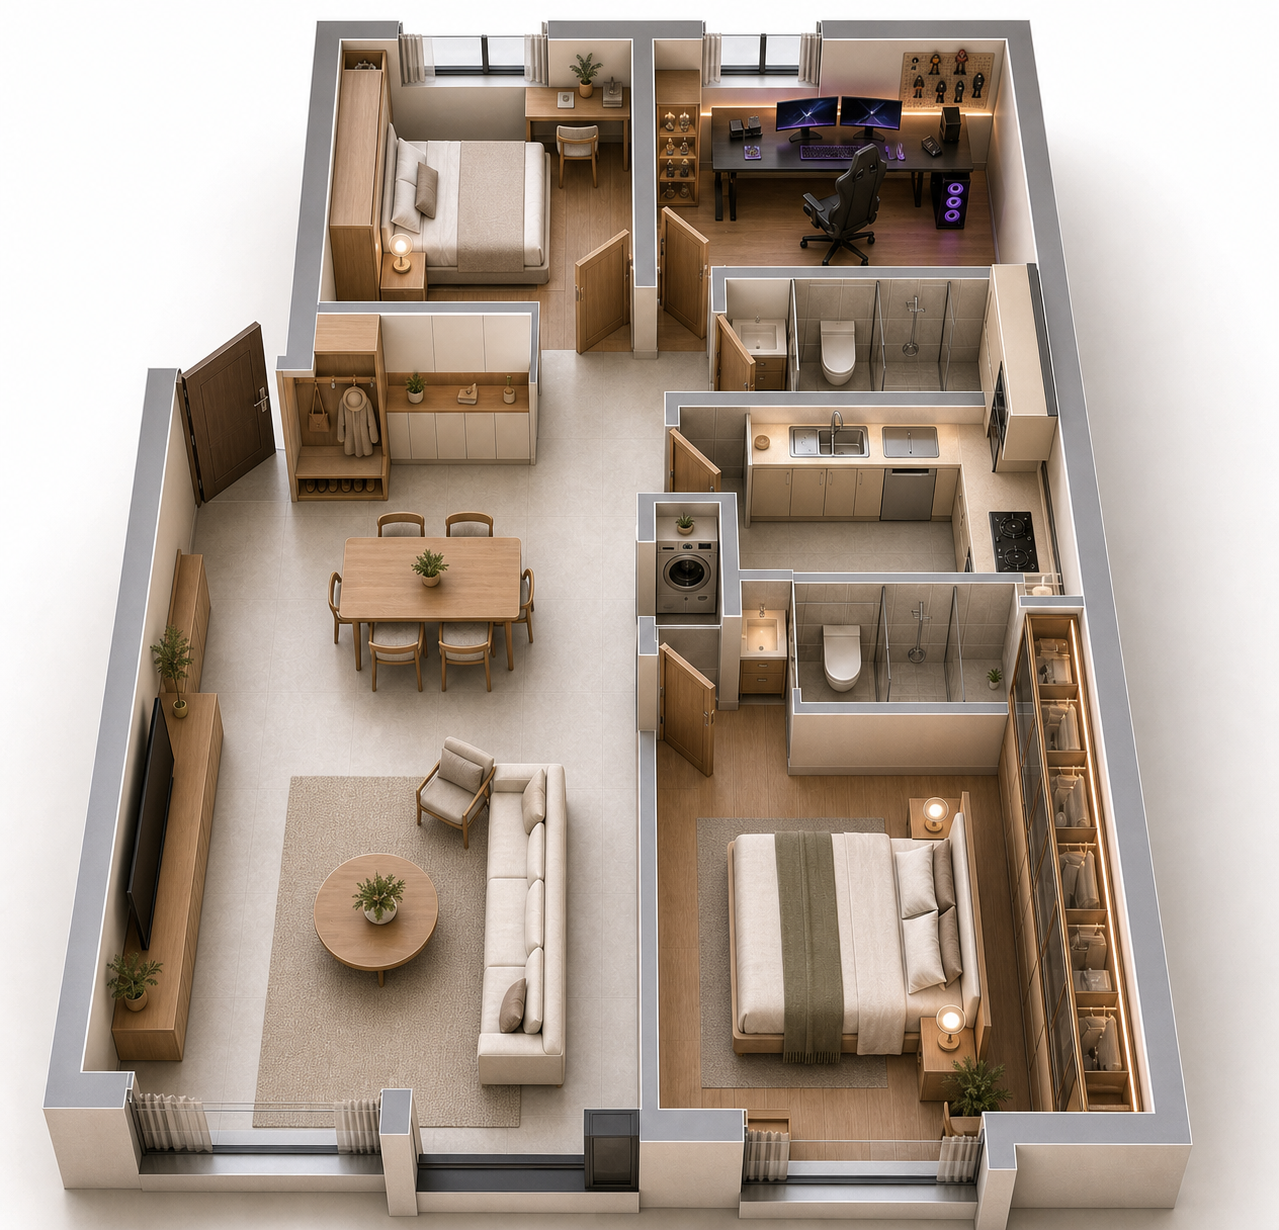
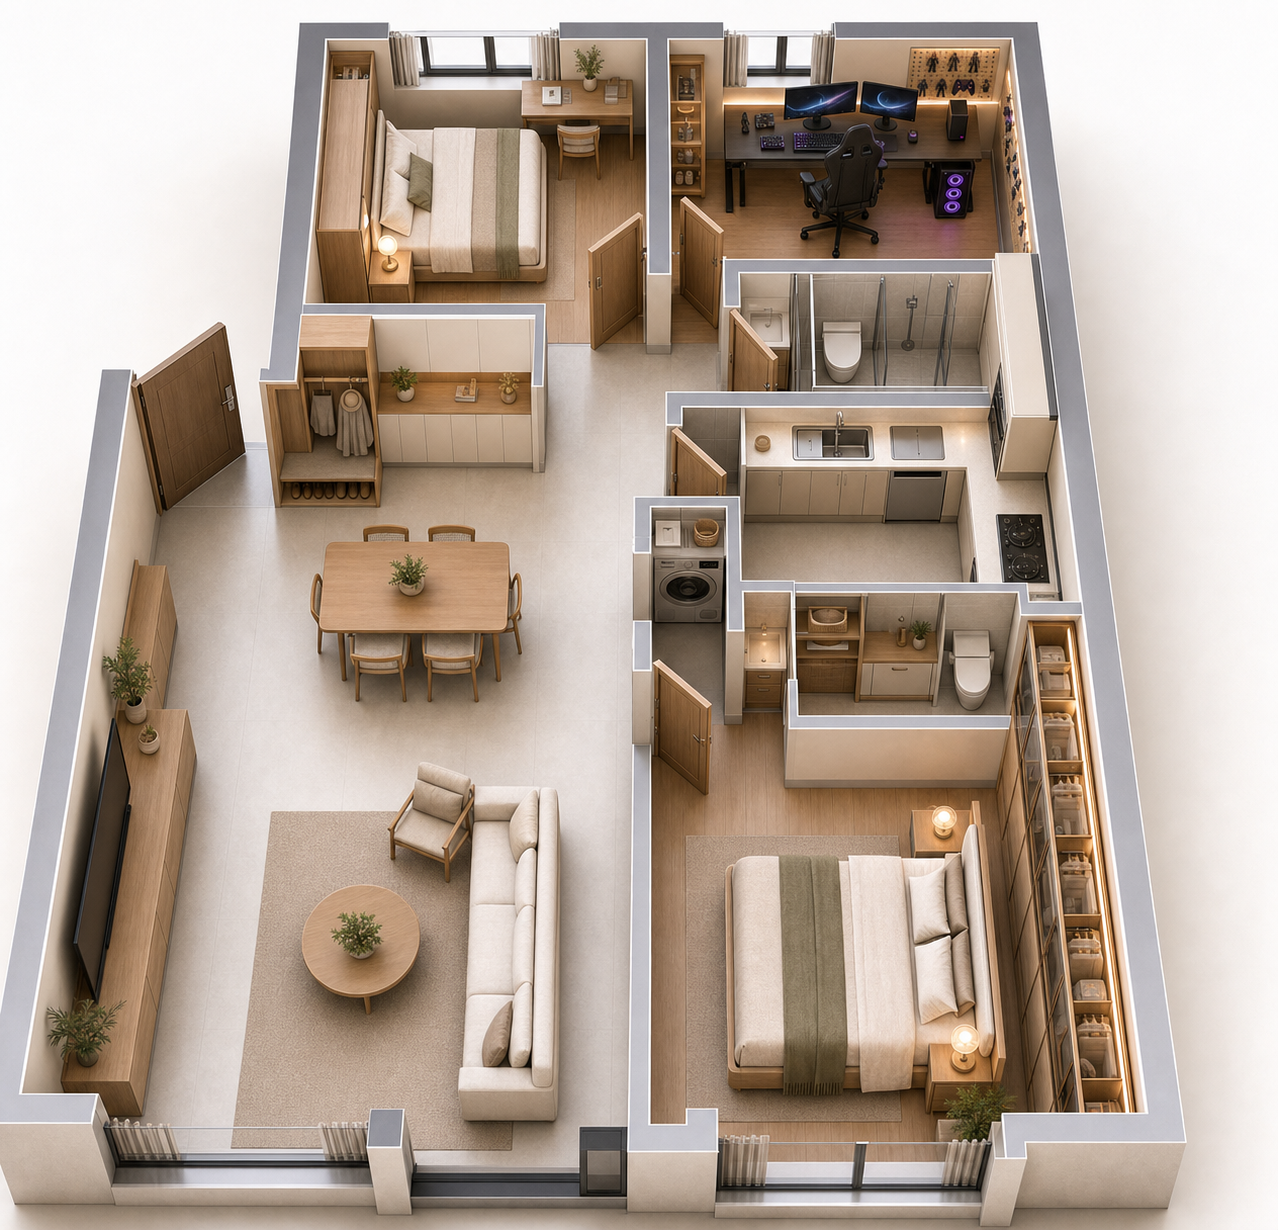
complete render gallery

diff --git a/outputs/render-prompt-gallery.html b/outputs/render-prompt-gallery.html
@@ -1,0 +1,284 @@
+<!doctype html>
+<html lang="zh-CN">
+<head>
+  <meta charset="utf-8">
+  <meta name="viewport" content="width=device-width, initial-scale=1">
+  <title>119㎡装修效果图与提示词总览</title>
+  <style>
+    :root {
+      --bg: #f6f1ea;
+      --paper: #fffdfa;
+      --ink: #2f2a24;
+      --muted: #72675d;
+      --line: #ded1c3;
+      --wood: #b88955;
+      --sage: #7c8c73;
+      --tile: #d8d0c8;
+      --warn: #a96b48;
+    }
+    * { box-sizing: border-box; }
+    body {
+      margin: 0;
+      font-family: "Microsoft YaHei", "PingFang SC", Arial, sans-serif;
+      background: var(--bg);
+      color: var(--ink);
+      line-height: 1.68;
+    }
+    a { color: inherit; }
+    header {
+      padding: 34px clamp(18px, 4vw, 62px) 24px;
+      background: #eadccc;
+      border-bottom: 1px solid var(--line);
+    }
+    h1 {
+      margin: 0;
+      font-size: clamp(30px, 5vw, 58px);
+      line-height: 1.08;
+      letter-spacing: 0;
+    }
+    .lead {
+      max-width: 960px;
+      margin: 14px 0 0;
+      color: var(--muted);
+      font-size: 17px;
+    }
+    main { padding: 24px clamp(18px, 4vw, 62px) 54px; }
+    .toolbar {
+      position: sticky;
+      top: 0;
+      z-index: 5;
+      display: flex;
+      flex-wrap: wrap;
+      gap: 10px;
+      align-items: center;
+      padding: 12px 0 16px;
+      background: linear-gradient(var(--bg) 72%, rgba(246,241,234,0));
+    }
+    button {
+      border: 1px solid var(--line);
+      background: var(--paper);
+      color: var(--ink);
+      min-height: 38px;
+      padding: 7px 12px;
+      border-radius: 8px;
+      cursor: pointer;
+      font: inherit;
+    }
+    button.active {
+      background: var(--wood);
+      border-color: var(--wood);
+      color: white;
+    }
+    .summary {
+      display: grid;
+      grid-template-columns: repeat(4, minmax(0, 1fr));
+      gap: 12px;
+      margin-bottom: 18px;
+    }
+    .metric {
+      background: var(--paper);
+      border: 1px solid var(--line);
+      border-radius: 8px;
+      padding: 14px;
+    }
+    .metric strong {
+      display: block;
+      font-size: 24px;
+      line-height: 1.1;
+      margin-bottom: 4px;
+    }
+    .metric span { color: var(--muted); font-size: 14px; }
+    .note {
+      margin: 0 0 20px;
+      padding: 14px 16px;
+      border-left: 4px solid var(--sage);
+      background: #f4f6ef;
+      color: #59634e;
+    }
+    .grid {
+      display: grid;
+      grid-template-columns: repeat(3, minmax(0, 1fr));
+      gap: 18px;
+    }
+    .card {
+      background: var(--paper);
+      border: 1px solid var(--line);
+      border-radius: 8px;
+      overflow: hidden;
+    }
+    .card img {
+      display: block;
+      width: 100%;
+      aspect-ratio: 4 / 3;
+      object-fit: cover;
+      background: var(--tile);
+    }
+    .body { padding: 14px 15px 16px; }
+    .meta {
+      display: flex;
+      align-items: center;
+      justify-content: space-between;
+      gap: 10px;
+      margin-bottom: 8px;
+    }
+    h2 {
+      margin: 0;
+      font-size: 18px;
+      line-height: 1.25;
+      letter-spacing: 0;
+    }
+    .tag {
+      flex: 0 0 auto;
+      padding: 3px 8px;
+      border-radius: 999px;
+      background: #eef2e8;
+      color: #526047;
+      font-size: 12px;
+      white-space: nowrap;
+    }
+    .checks {
+      margin: 8px 0 10px;
+      color: var(--muted);
+      font-size: 14px;
+    }
+    details {
+      border-top: 1px solid #eadfd4;
+      padding-top: 10px;
+    }
+    summary {
+      cursor: pointer;
+      color: var(--wood);
+      font-weight: 700;
+    }
+    .prompt {
+      white-space: pre-wrap;
+      color: #514840;
+      font-size: 14px;
+      margin: 10px 0 0;
+    }
+    .warn { color: var(--warn); font-weight: 700; }
+    footer {
+      padding: 24px clamp(18px, 4vw, 62px) 38px;
+      border-top: 1px solid var(--line);
+      color: var(--muted);
+      background: #ede1d2;
+    }
+    @media (max-width: 1100px) {
+      .grid { grid-template-columns: repeat(2, minmax(0, 1fr)); }
+      .summary { grid-template-columns: repeat(2, minmax(0, 1fr)); }
+    }
+    @media (max-width: 680px) {
+      .grid, .summary { grid-template-columns: 1fr; }
+      .toolbar { position: static; }
+    }
+  </style>
+</head>
+<body>
+  <header>
+    <h1>119㎡装修效果图与提示词总览</h1>
+    <p class="lead">所有图片基于统一户型方向生成：北上、南下、东右、西左。每张图下方都附对应提示词摘要和检查点，后续可按单张继续重生成或替换。</p>
+  </header>
+  <main>
+    <section class="summary">
+      <div class="metric"><strong id="totalCount">37</strong><span>已生成图片</span></div>
+      <div class="metric"><strong>9</strong><span>空间四向视图</span></div>
+      <div class="metric"><strong>1</strong><span>整体俯视图</span></div>
+      <div class="metric"><strong>UTF-8</strong><span>提示词文档编码</span></div>
+    </section>
+    <p class="note">重点修正：客卫/家政间按最新现场图处理为“干区台盆 + 独立马桶小间 + 尽端家政洗烘收纳”，不生成淋浴房、浴缸、花洒或玻璃淋浴隔断。</p>
+    <nav class="toolbar" id="filters"></nav>
+    <section class="grid" id="gallery"></section>
+  </main>
+  <footer>
+    关联文件：<a href="119m2-image-generation-prompts.md">119m2-image-generation-prompts.md</a>。正式落地仍需现场复尺、CAD施工图、水电图和定制柜深化图。
+  </footer>
+  <script>
+    const base = {
+      "整体": "整体3D俯视，北上南下东右西左，西北次卧2850×3500，东北电竞房2500×3500，中西玄关餐厅，中东从北到南为上卫、厨房、客卫/家政间，西南客厅4200×5300，东南主卧3600×4700。客卫/家政间必须是干区台盆、独立马桶小间、尽端洗烘家政柜，不要淋浴。",
+      "玄关餐厅": "中西侧玄关餐厅，纵深约4150mm。西侧入户门，鞋柜深350-400mm，开放挂衣区700-900mm，换鞋凳800-1000×350×420mm，餐桌1600×800mm长边东西向，餐边柜深350-400mm靠厨房入口。奶油白、浅橡木、米灰柔光砖、3000K暖光。",
+      "客厅": "西南客厅4200×5300mm，南侧大窗。电视在西墙，65-85寸，朝东；电视柜2400-3000×350mm；沙发2800-3200×900mm在东侧朝西；地毯2000×3000mm，圆茶几700-900mm。奶油原木风，真实住宅尺度。",
+      "厨房": "中东厨房3600×2250mm，西侧入口，北侧/窗边水槽朝南，600mm洗碗机靠水槽，东侧灶台朝西，入口侧冰箱900×700×1900mm和600mm蒸烤箱高柜。地柜600mm，吊柜350mm，过道约900mm。",
+      "上卫生间": "厨房北侧紧凑公卫约2000×1700mm。浴室柜700-900mm，镜柜120-150mm，马桶区700-800mm，东侧/东南角淋浴区≥900×900mm，玻璃隔断。米灰柔光砖，干湿分离，不要浴缸。",
+      "客卫/家政间": "厨房南侧、主卧北侧，约3600×1950mm。三段式：入口干区台盆900-1200×500-550mm和灰色镜柜；尽端600×600mm洗衣机/烘干机叠放，总高1700-1800mm，家政柜深350-600mm；东侧独立马桶小间宽800-900mm，小窗、暗装水箱。不要淋浴房。",
+      "主卧": "东南主卧3600×4700mm，南侧大窗。床1800×2000mm，床头靠东墙、床尾朝西；东墙600mm深香槟/浅灰金属衣柜，柜门朝西；南窗前梳妆台900-1200×400mm。浅木地板、燕麦床品、2700-3000K暖光。",
+      "电竞房": "东北电竞房2500×3500mm，北侧窗。电竞桌1800-2200×700mm在北窗下，显示器朝南，椅子朝北；西墙450-600mm深到顶收纳柜；东墙300-350mm深展示墙/洞洞板；少量氛围灯，不要全黑赛博风。",
+      "西北次卧": "西北次卧2850×3500mm，北侧窗。书桌1200-1500×550mm在北窗下，椅子朝北；床1500×2000mm靠西侧或中部偏西；衣柜深550-600mm靠南侧门边/西墙，柜门朝东。温暖实用，不做主卧套房。",
+      "衣帽过道": "两个北卧下方、中部偏西过渡区，约1700mm进深。到顶收纳柜深400-600mm，开放挂衣/家政区700-900mm，通道净宽≥900mm。不是独立大衣帽间，保持通道顺畅。"
+    };
+    const items = [
+      ["整体","整体俯视","00-overall-isometric.png","已重生成，客卫/家政间不带淋浴。"],
+      ["玄关餐厅","北视角","01-foyer-dining-north.png","玄关柜、挂衣区、餐桌和餐边柜位置正确。"],
+      ["玄关餐厅","南视角","02-foyer-dining-south.png","从餐厅看入户，入户门和挂衣区清楚。"],
+      ["玄关餐厅","东视角","03-foyer-dining-east.png","厨房入口边看向西侧入户，关系正确。"],
+      ["玄关餐厅","西视角","04-foyer-dining-west.png","从入户向东看餐厅和厨房入口。"],
+      ["客厅","北视角","05-living-north.png","电视西墙、沙发东侧、南窗可见。"],
+      ["客厅","南视角","06-living-south.png","从南窗看餐厅，厨房保持在中东侧。"],
+      ["客厅","东视角","07-living-east.png","沙发侧看西墙电视，方向正确。"],
+      ["客厅","西视角","08-living-west.png","电视墙侧看东侧沙发，尺度合适。"],
+      ["厨房","北视角","09-kitchen-north.png","入口冰箱高柜、水槽、灶台方向正确。"],
+      ["厨房","南视角","10-kitchen-south.png","从客卫方向看北侧水槽和东侧灶台。"],
+      ["厨房","东视角","11-kitchen-east.png","从灶台侧看西侧入口和冰箱高柜。"],
+      ["厨房","西视角","12-kitchen-west.png","从餐厅入口看厨房，三件套清楚。"],
+      ["上卫生间","北视角","13-upper-bath-north.png","紧凑公卫，浴室柜、马桶、淋浴分区清楚。"],
+      ["上卫生间","南视角","14-upper-bath-south.png","门口看三件套，尺度不夸张。"],
+      ["上卫生间","东视角","15-upper-bath-east.png","淋浴侧看台盆和马桶。"],
+      ["上卫生间","西视角","16-upper-bath-west.png","门口看东侧淋浴，干湿分离。"],
+      ["客卫/家政间","北视角","17-guest-bath-housekeeping-north.png","左台盆、尽端洗烘、右马桶小间，无淋浴。"],
+      ["客卫/家政间","南视角","18-guest-bath-housekeeping-south.png","洗烘端看入口，台盆和马桶间清楚。"],
+      ["客卫/家政间","东视角","19-guest-bath-housekeeping-east.png","马桶小间内看外侧台盆和洗烘。"],
+      ["客卫/家政间","西视角","20-guest-bath-housekeeping-west.png","台盆侧看马桶小间和家政柜，无淋浴。"],
+      ["主卧","北视角","21-master-bedroom-north.png","床头东墙、东侧衣柜、南窗梳妆台。"],
+      ["主卧","南视角","22-master-bedroom-south.png","南窗看北侧，东墙衣柜正确。"],
+      ["主卧","东视角","23-master-bedroom-east.png","衣柜/床头侧看床尾，方向正确。"],
+      ["主卧","西视角","24-master-bedroom-west.png","床尾看东墙床头和衣柜，合格。"],
+      ["电竞房","北视角","25-gaming-room-north.png","桌在北窗下，西柜东展示墙。"],
+      ["电竞房","南视角","26-gaming-room-south.png","门口看北窗下电竞桌，椅子朝北。"],
+      ["电竞房","东视角","27-gaming-room-east.png","展示墙侧看西柜和北窗桌。"],
+      ["电竞房","西视角","28-gaming-room-west.png","收纳柜侧看东展示墙，桌仍在北窗下。"],
+      ["西北次卧","北视角","29-secondary-bedroom-north.png","北窗书桌、床和门边衣柜清楚。"],
+      ["西北次卧","南视角","30-secondary-bedroom-south.png","门口看北窗书桌，床不堵门。"],
+      ["西北次卧","东视角","31-secondary-bedroom-east.png","东侧看西侧床和北窗书桌。"],
+      ["西北次卧","西视角","32-secondary-bedroom-west.png","床边看通道、衣柜和书桌。"],
+      ["衣帽过道","北视角","33-passage-storage-north.png","收纳、挂衣和通道关系正确。"],
+      ["衣帽过道","南视角","34-passage-storage-south.png","餐厅侧看北卧门和收纳柜。"],
+      ["衣帽过道","东视角","35-passage-storage-east.png","厨房侧看玄关方向，通道不堵。"],
+      ["衣帽过道","西视角","36-passage-storage-west.png","玄关侧看厨房/卫浴入口方向。"]
+    ];
+    const gallery = document.getElementById("gallery");
+    const filters = document.getElementById("filters");
+    const groups = ["全部", ...Array.from(new Set(items.map(item => item[0])))];
+    let active = "全部";
+    function renderFilters() {
+      filters.innerHTML = "";
+      groups.forEach(group => {
+        const btn = document.createElement("button");
+        btn.textContent = group;
+        btn.className = group === active ? "active" : "";
+        btn.onclick = () => { active = group; renderFilters(); renderCards(); };
+        filters.appendChild(btn);
+      });
+    }
+    function renderCards() {
+      gallery.innerHTML = "";
+      items.filter(item => active === "全部" || item[0] === active).forEach(([room, view, file, check]) => {
+        const card = document.createElement("article");
+        card.className = "card";
+        card.innerHTML = `
+          <img src="generated-renders/${file}" alt="${room}${view}">
+          <div class="body">
+            <div class="meta"><h2>${room} · ${view}</h2><span class="tag">${file.split("-")[0]}</span></div>
+            <div class="checks">检查：${check}</div>
+            <details>
+              <summary>查看对应提示词</summary>
+              <div class="prompt">${base[room]}\n\n视角：${view}。按统一规则：北视角站北向南，南视角站南向北，东视角站东向西，西视角站西向东。风格统一为奶油原木/灰米现代，真实室内摄影、自然光、柔和阴影、无人物、无文字、无水印。</div>
+            </details>
+          </div>`;
+        gallery.appendChild(card);
+      });
+    }
+    document.getElementById("totalCount").textContent = items.length;
+    renderFilters();
+    renderCards();
+  </script>
+</body>
+</html>

diff --git a/PROGRESS.md b/PROGRESS.md
@@ -1,16 +1,14 @@
-# 装修效果图生成暂停记录
+# 装修效果图生成记录
 
 记录时间：2026-06-04
 
-## 当前暂停点
+## 当前状态
 
-已暂停继续生成图片。最后完成并保存的图片是：
-
-- `outputs/generated-renders/25-gaming-room-north.png`
+已完成本轮图片生成、检查总览和新网站制作。已生成并保存 37 张图：整体俯视 1 张，9 个空间各 4 个方向视图。
 
 ## 已完成图片
 
-- `00-overall-isometric.png`：整体俯视图，候选图。注意：早期生成，客卫/家政间可能仍带有淋浴表达，最终检查时建议优先重生成。
+- `00-overall-isometric.png`：整体俯视图，已重生成，客卫/家政间按无淋浴处理。
 - `01-foyer-dining-north.png`
 - `02-foyer-dining-south.png`
 - `03-foyer-dining-east.png`
@@ -36,6 +34,17 @@
 - `23-master-bedroom-east.png`
 - `24-master-bedroom-west.png`
 - `25-gaming-room-north.png`
+- `26-gaming-room-south.png`
+- `27-gaming-room-east.png`
+- `28-gaming-room-west.png`
+- `29-secondary-bedroom-north.png`
+- `30-secondary-bedroom-south.png`
+- `31-secondary-bedroom-east.png`
+- `32-secondary-bedroom-west.png`
+- `33-passage-storage-north.png`
+- `34-passage-storage-south.png`
+- `35-passage-storage-east.png`
+- `36-passage-storage-west.png`
 
 ## 已确认的核心约束
 
@@ -46,14 +55,17 @@
 - 主卧：位于东南侧，约 `3600mm × 4700mm`；床头靠东墙，床尾朝西；东侧为金属衣柜；南窗前梳妆台。
 - 电竞房：位于东北侧，约 `2500mm × 3500mm`；电竞桌在北窗下；椅子朝北；西墙收纳柜；东墙展示墙。
 
-## 待继续任务
+## 已完成网页
 
-1. 继续生成电竞房剩余三张：南视角、东视角、西视角。
-2. 生成西北普通次卧四张：北、南、东、西视角。
-3. 生成衣帽/过道区四张：北、南、东、西视角。
-4. 最终检查已生成图片是否符合统一提示词。
-5. 如需修正，优先重生成：
-   - `00-overall-isometric.png`：客卫/家政间可能带淋浴。
-   - `24-master-bedroom-west.png`：主卧西视角中衣柜方向表达可再优化。
-6. 新建网站，把每张图和对应提示词放在同一页面中，并优化网页展示。
+新网站：
 
+- `outputs/render-prompt-gallery.html`
+
+辅助检查图：
+
+- `outputs/render-contact-sheet.jpg`
+
+## 后续可选优化
+
+1. 如需更严格施工表达，可继续按单张重生成局部视角。
+2. 如需上线，可把 `outputs/render-prompt-gallery.html` 作为 GitHub Pages 或静态站点入口。

diff --git a/README.md b/README.md
@@ -6,11 +6,14 @@
 
 - `outputs/119m2-image-generation-prompts.md`：统一户型、尺寸、家具方向和氛围词的生图提示词文档。
 - `outputs/generated-renders/`：已生成的效果图图片。
+- `outputs/render-prompt-gallery.html`：新网站，按房间展示每张图片、检查点和对应提示词。
+- `outputs/render-contact-sheet.jpg`：37张图的缩略图检查总览。
 - `PROGRESS.md`：本次暂停记录、已完成图片清单、待继续任务。
 
 ## 生成进度
 
-当前已生成并保存 26 张图，暂停在 `25-gaming-room-north.png`。
+当前已生成并保存 37 张图：整体俯视 1 张，9 个空间各 4 个方向视图。
 
-下一步应从电竞房剩余三个视角继续：南视角、东视角、西视角，然后继续西北次卧、衣帽/过道区，最后检查图片并制作“图片 + 提示词”的新网页。
+已完成“图片 + 提示词 + 检查点”的新网站，可直接打开：
 
+- `outputs/render-prompt-gallery.html`
